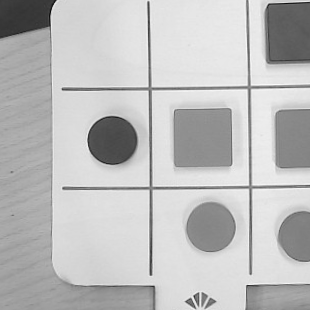
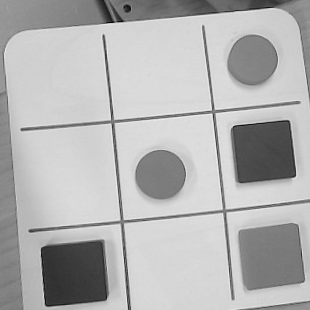
change branch

diff --git a/Morpion/Robot.py b/Morpion/Robot.py
@@ -4,7 +4,6 @@ import time
 import cv2 as cv
 import pygame
 import os
-from Morpion.model import Model, transform
 import torch
 from PIL import Image
 import sys
@@ -12,6 +11,9 @@ import importlib
 import importlib.util
 import pygame
 # WARNING : only works with pyniryo==1.1.2
+if __name__ != "__main__":
+    from Morpion.model import Model, transform
+
 
 try:
     module_path = os.path.join(os.path.dirname(__file__), 'model.py')
@@ -253,5 +255,6 @@ class Robot:
             print("Picture taken || num of the pic: ", i)
 
 if __name__ == '__main__':
+    from model import Model, transform
     robot1 = Robot()
-    robot1.take_n_pictures(100, rd=True)
+    robot1.take_n_pictures(500, rd=True)
